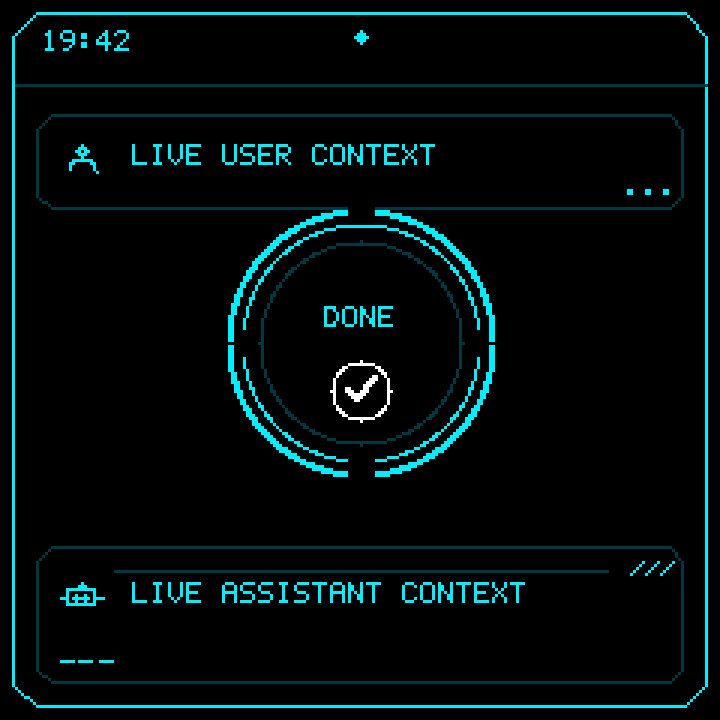
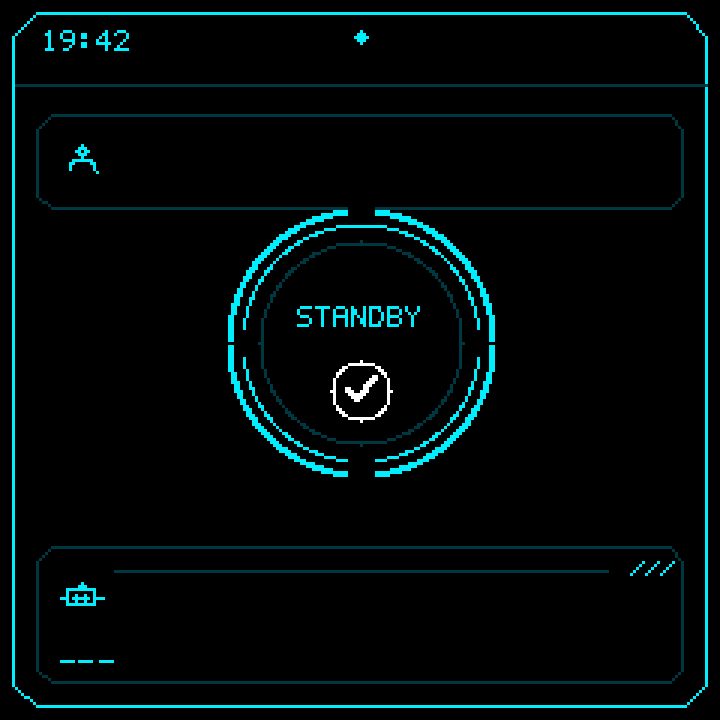
Use Realtime Xiaozhi Preview Context

diff --git a/firmware/esp32-ornament/docs/preview_native.c b/firmware/esp32-ornament/docs/preview_native.c
@@ -23,6 +23,26 @@ static void set_text(char *dst, size_t dst_size, const char *src)
     snprintf(dst, dst_size, "%s", src);
 }
 
+typedef struct {
+    const char *last_stt;
+    const char *last_tts;
+} preview_xiaozhi_context_t;
+
+static preview_xiaozhi_context_t preview_xiaozhi_context(void)
+{
+    preview_xiaozhi_context_t context = {
+        .last_stt = getenv("ORNAMENT_PREVIEW_XIAOZHI_STT"),
+        .last_tts = getenv("ORNAMENT_PREVIEW_XIAOZHI_TTS"),
+    };
+    if (context.last_stt == NULL) {
+        context.last_stt = "";
+    }
+    if (context.last_tts == NULL) {
+        context.last_tts = "";
+    }
+    return context;
+}
+
 static uint8_t expand_5_to_8(uint16_t value)
 {
     return (uint8_t)((value << 3) | (value >> 2));
@@ -368,6 +388,7 @@ int main(int argc, char **argv)
     if (render_music(output_dir, &normal) != 0) {
         return 1;
     }
+    const preview_xiaozhi_context_t xiaozhi_context = preview_xiaozhi_context();
     if (render_xiaozhi(
             output_dir,
             &normal,
@@ -387,7 +408,7 @@ int main(int argc, char **argv)
             XIAOZHI_CLIENT_STATE_LISTENING,
             true,
             true,
-            "LIVE USER CONTEXT",
+            xiaozhi_context.last_stt,
             "",
             "") != 0) {
         return 1;
@@ -399,8 +420,8 @@ int main(int argc, char **argv)
             XIAOZHI_CLIENT_STATE_SPEAKING,
             true,
             true,
-            "LIVE USER CONTEXT",
-            "LIVE ASSISTANT CONTEXT",
+            xiaozhi_context.last_stt,
+            xiaozhi_context.last_tts,
             "") != 0) {
         return 1;
     }
@@ -435,8 +456,8 @@ int main(int argc, char **argv)
             XIAOZHI_CLIENT_STATE_IDLE,
             true,
             true,
-            "LIVE USER CONTEXT",
-            "LIVE ASSISTANT CONTEXT",
+            xiaozhi_context.last_stt,
+            xiaozhi_context.last_tts,
             "") != 0) {
         return 1;
     }
